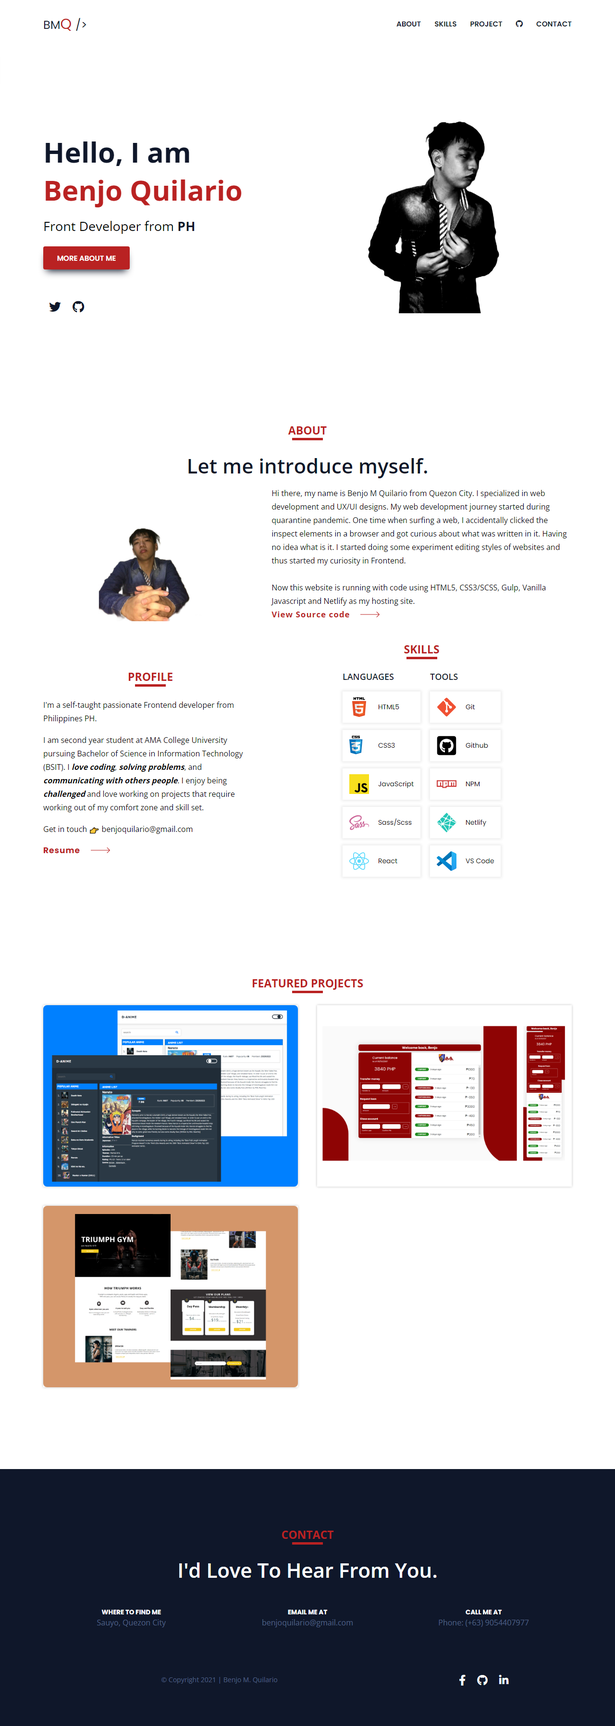
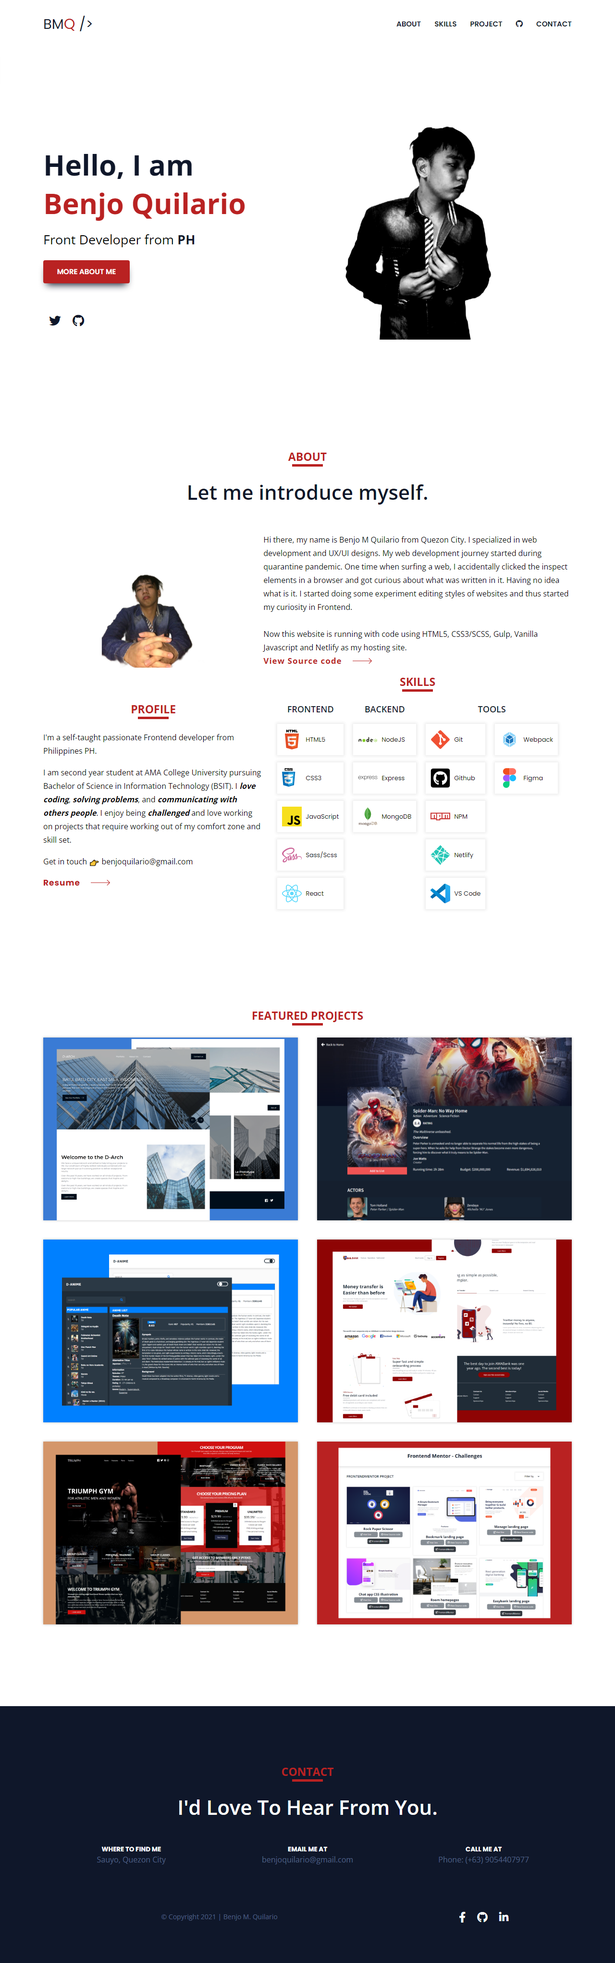
Add: new featured projects

diff --git a/dist/style.css b/dist/style.css
@@ -1,2 +1,2 @@
-@import url("https://fonts.googleapis.com/css2?family=Poppins:wght@400;600;700&display=swap");@import url("https://fonts.googleapis.com/css2?family=Open+Sans:wght@400;600;700&display=swap");:root{--red:#b92222;--white:#fff;--black:#0f172a;--font-Sans:"Open Sans",sans-serif;--font-Poppins:"Poppins",sans-serif;--font-Normal:400;--font-semiBold:600;--font-Bold:700}@keyframes headerScrollIn{0%{opacity:0;transform:translateY(-100%)}to{opacity:1;transform:translateY(0)}}@keyframes headerScrollOut{0%{opacity:1;transform:translateY(0)}to{opacity:0;transform:translateY(-100%)}}.section__hidden,.section__select{transition:all .65s ease-in-out}.section__hidden{opacity:0;transform:translateY(8rem)}html{box-sizing:border-box;font-size:100%}*,:after,:before{box-sizing:inherit;margin:0;padding:0}body{font-family:var(--font-Poppins);font-size:16px;overflow-x:hidden;position:relative}@media screen and (max-width:768px){body.no-scroll{overflow:hidden}}img{height:auto;max-width:100%}ol,ul{list-style:none}button,input{font-family:var(--fontNormal)}a,a:active,a:visited{text-decoration:none}a:active:focus,a:focus,a:visited:focus{outline:none}a:active:focus-visible,a:focus-visible,a:visited:focus-visible{outline:2px solid var(--red);outline-offset:3px}@media (prefers-reduced-motion:reduce){html:focus-within{scroll-behavior:auto}*,:after,:before{animation-duration:.01ms!important;animation-iteration-count:1!important;scroll-behavior:auto!important;transition-duration:.01ms!important}}.container{margin:0 auto;max-width:1100px;width:100%}.skip-to-content-link{background-color:var(--white);box-shadow:5px 5px 5px rgba(0,0,0,.1);color:var(--black);font-size:15px;left:0;padding:20px 40px;position:fixed;text-decoration:underline;top:110px;transform:translateX(-200px);transition:transform .3s ease;z-index:100}.skip-to-content-link:focus{outline:3px dashed var(--red);outline-offset:0;transform:translateX(0)}.loading *,.loading :after,.loading :before{animation-play-state:paused!important}h1,h2,h3,h4,p{font-family:var(--font-Sans)}.heading,.heading--xxl{color:var(--black);font-weight:400}.heading__name{color:var(--red)}.heading--intro{color:var(--black);font-size:clamp(30px,5vw,42px);font-weight:600;margin-bottom:18px;text-align:center}.heading--xxl{font-size:clamp(34px,7vw,59px);font-weight:700;margin-bottom:20px;max-width:450px}.heading--xl{color:var(--red);font-size:clamp(17px,4vw,23px);font-weight:700;margin-bottom:29px;position:relative;text-align:center;text-transform:uppercase}.heading--xl:before{background-color:var(--red);bottom:-5px;content:"";height:5px;left:0;margin:0 auto;position:absolute;right:0;width:64px}.heading--l{color:var(--black);font-size:18px;font-weight:600;margin-bottom:19px;text-align:center;text-transform:uppercase}.heading--m{color:var(--white);font-size:20px;font-weight:600;margin-bottom:14px}.heading--services{font-weight:600;margin:15px 0;text-align:center;text-transform:uppercase}.heading--footer{font-size:40px}.paragraph,.paragraph--l{line-height:1.2}.paragraph__name{color:var(--black);font-weight:700}.paragraph--l{font-size:clamp(23px,3vw,27px);margin-bottom:26px}.paragraph--about{font-size:16px;line-height:28px;margin-bottom:17px}.learnMore__text{color:var(--red);font-size:17px;font-weight:700;letter-spacing:1px;margin-right:18px;transition:margin-right .3s ease-in-out}.learnMore__icon svg path{fill:var(--red)}.btn,.btn--blue,.btn--menu,.btn--start{border:none;cursor:pointer;font-size:15px;font-weight:600;outline:none;position:relative;transition:background-color .3s,border .3s ease-in}.btn--blue:focus,.btn--menu:focus,.btn--start:focus,.btn:focus{outline:none}.btn--blue:focus-visible,.btn--menu:focus-visible,.btn--start:focus-visible,.btn:focus-visible{outline:3px solid var(--red);outline-offset:3px}.btn--menu{align-items:center;background-color:transparent;display:flex;flex-direction:column;justify-self:center;z-index:10}.btn--menu:focus{outline:none}.btn--menu:focus-visible{outline:3px solid var(--red);outline-offset:2px}.btn--menu--bar{background-color:var(--black);display:block;height:.25rem;transition-duration:.2s;transition-timing-function:cubic-bezier(.55,.055,.675,.19);width:1.5rem}.btn--menu--bar:not(:last-of-type){margin-bottom:.2rem}.btn--menu.menu-active .btn--menu--bar{background-color:var(--white)}.btn--menu.menu-active .btn--menu--bar:first-child{transform:rotate(45deg) translate(2px,5px);transition-delay:.15s}.btn--menu.menu-active .btn--menu--bar:nth-child(2){opacity:0}.btn--menu.menu-active .btn--menu--bar:nth-child(3){transform:rotate(-45deg) translate(5px,-8px);transition-delay:.15s}@media screen and (min-width:769px){.btn--menu{display:none}}.btn--blue{align-items:center;border:2px solid var(--red);border-radius:4px;box-shadow:0 10px 15px -7px var(--black);color:var(--white);display:flex;justify-content:center;z-index:1}.btn--blue:hover{color:var(--red)}.btn--blue:hover:before{background-color:var(--white);transition:all .35s ease}.btn--blue:before{background-color:var(--red);content:"";display:block;height:100%;left:0;position:absolute;top:0;transition:all .35s ease;width:100%;z-index:-1}.btn--start{height:48px;width:180px}.btn--more:hover .learnMore__text{margin-right:26px}.btn--view{color:var(--black);font-size:16px}.icon__skills{color:var(--red);font-size:clamp(22px,4vw,29px)}.icon__project{margin-right:10px}.header{left:0;padding:24px 28px 0;position:absolute;width:100%;z-index:999}.header.header--in{animation:headerScrollIn .7s ease-in-out forwards;background-color:var(--white);box-shadow:1px 1px 1px 1px rgba(0,0,0,.04);left:0;padding:12px 28px;position:fixed;top:0;transition:all .3s ease-in-out;width:100%}.header.scroll-out{animation:headerScrollOut .3s ease-in-out forwards}.header__container{align-items:center;display:flex;height:51px;justify-content:space-between;transition:all .35s ease-in-out}.header__logo{color:var(--black);font-size:29px;z-index:1}@media screen and (max-width:768px){.header__logo.active-color{color:var(--white)}}.header__logo--letter{color:var(--red);font-size:30px}@media screen and (max-width:768px){.header__menu{align-items:center;background-color:var(--black);display:flex;height:100vh;justify-content:center;position:fixed;right:-1000px;top:0;transition:all .34s ease-in;width:100%}.header__menu.is-active{right:0}}.header__list{align-items:center;display:flex}@media screen and (min-width:769px){.header__item:not(:last-child){margin-right:28px}}@media screen and (max-width:768px){.header__list{align-items:center;display:grid;grid-template-columns:max-content;grid-template-rows:repeat(5,3.75rem);justify-items:center}}.header__link{color:var(--white);font-size:17px;font-weight:600;position:relative;text-transform:uppercase}.header__link:active{outline:3px solid var(--white);outline-offset:3px}.header__link:before{background-color:var(--red);bottom:-5px;content:"";height:4px;left:0;opacity:0;position:absolute;transform:scaleX(0);transform-origin:left;visibility:hidden;width:100%}@media screen and (min-width:769px){.header__link{color:var(--black);font-size:15px}.header__link:hover{color:var(--red)}.header__link:hover:before{opacity:1;transform:scale(1);transition:all .35s ease-in;visibility:visible}}.hero{padding:216px 28px 80px;position:relative}.hero__container{display:flex;flex-direction:column;position:relative}@media screen and (min-width:769px){.hero__container{align-items:center;flex-direction:row;justify-content:center}}.hero__text{align-items:center;display:flex;flex-direction:column;text-align:center}@media screen and (min-width:769px){.hero__text{align-items:flex-start;flex:1 0 50%;text-align:left}}.hero__image{position:relative;z-index:5}.hero__image img{height:100%;object-fit:cover;position:relative;transform:translateY(-60px);transition:all .3s;width:100%}@media screen and (max-width:768px){.hero__image img{transform:translateY(0)}}.hero__icon{display:flex;margin-top:60px}.hero__icon__link{color:var(--black);font-size:25px;margin:0 6px;transition:all .35s ease-in-out}.hero__icon__link:hover{color:var(--red)}.about{padding:80px 28px 20px}.about__container{align-items:center;display:flex;flex-direction:column;justify-items:center}@media screen and (min-width:769px){.about__container{display:grid;grid-template-columns:1fr 1.4fr;grid-template-rows:290px 1fr;margin-top:60px}}.about__img{height:270px;object-fit:cover;width:286px}.about__hidden{opacity:0;transform:translateY(9rem);transition:all .35s ease-in-out}.services{padding:20px 19px 140px}.services__container{grid-gap:22px;align-items:center;display:grid;grid-template-columns:repeat(3,1fr);grid-template-rows:294px;justify-items:center}@media screen and (max-width:768px){.services__container{grid-template-columns:repeat(2,1fr)}}@media screen and (max-width:576px){.services__container{grid-template-columns:1fr}}.services__images{height:116px;width:205px}.services__service{align-items:center;display:flex;flex-direction:column;justify-content:center;text-align:center}.skills{padding:0 18px;position:relative}.skills__container{display:flex;flex-direction:row;gap:20px}.skills__tech,.skills__tools{display:flex;flex-direction:column;justify-self:center;width:100%}.skills__names{align-items:center;box-shadow:0 0 6px 2px rgba(48,48,48,.1);display:grid;font-weight:500;grid-template-columns:49px 1fr;margin-bottom:15px;padding:10px;text-align:left;width:100%}.skills__names img{height:45px;width:41px}.skills__names .skill__name{font-size:clamp(12px,4vw,13px)}.projects{padding:170px 28px}.projects__container{grid-gap:40px;display:grid;grid-template-columns:repeat(2,1fr);grid-template-rows:auto;margin-top:30px}@media screen and (max-width:768px){.projects__container{grid-template-columns:1fr}}.project{box-shadow:0 0 5px rgba(0,0,0,.25);height:380px;overflow:hidden;position:relative;z-index:1}@media screen and (max-width:568px){.project{height:290px}}@media screen and (max-width:411px){.project{height:250px}}.project:before{background-position:50%;background-repeat:no-repeat;background-size:100% 100%;content:"";height:100%;left:0;position:absolute;top:0;transition:transform .5s ease-in;width:100%}.project--1:before{background-image:url(../../../images/d-anime.png)}.project--2:before{background-image:url(../../../images/AMAUI.png)}.project--3:before{background-image:url(../../../images/Triumph.png)}.project--4:before{background-image:url(../../../images/frontendmentor.png)}.project--5:before{background-image:url(../../../images/image-2.png)}.project__img{border-radius:8px;display:block;min-height:100%;width:100%}.project__effects{display:block;height:100%;width:100%;z-index:1}.project__effects:before{background-image:linear-gradient(90deg,rgba(0,0,0,.4),transparent);transition:opacity .25s ease-in;z-index:-1}.project__effects:after,.project__effects:before{content:"";height:100%;left:0;position:absolute;top:0;width:100%}.project__effects:after{background:hsla(0,0%,100%,.7);opacity:0;transition:opacity .6s ease-in;z-index:1}.project__overlay{background:rgba(0,0,0,.815);color:var(--white);display:flex;flex-direction:column;height:100%;left:0;opacity:0;position:absolute;top:0;transition:opacity .35s;width:100%;z-index:2}.project__overlay:hover{cursor:pointer;opacity:1;z-index:2}.project__overlay:hover>*{transform:translateX(0);transition:transform .35s}.project__overlay>*{transform:translateX(-20px);transition:transform .35s}.project__overlay__desc{margin:auto 0;max-width:100%;padding:.5rem 2rem}@media screen and (max-width:768px){.project__overlay__desc{padding:.5rem 1rem}}.project__description{font-size:clamp(13px,3vw,16px)}.project__use{margin-top:5px}.project__use__language{background-color:var(--red);border-radius:4px;font-size:clamp(11px,3vw,13px);margin-top:5px;padding:1px 3px}.project__code,.project__view{align-items:center;border-radius:7px;display:flex;font-size:14px;height:38px;justify-content:center;transition:all .3s ease}@media screen and (max-width:768px){.project__code,.project__view{font-size:11px;height:28px}}.project__code{background-color:#343a40;border-color:#343a40;color:var(--white);transition:all .3s ease;width:180px}@media screen and (max-width:768px){.project__code{width:135px}}.project__code:hover{background-color:#343a40c9}.project__view{background-color:#868d94;border-color:#868d94;color:var(--white);transition:all .3s ease;width:130px}@media screen and (max-width:768px){.project__view{width:90px}}.project__view:hover{background-color:#868d94ce}.project__link{display:flex;gap:14px;margin-top:16px}.project__title{font-size:clamp(18px,4vw,30px);font-weight:600;letter-spacing:1px;margin-bottom:6px}.tech__container,.tools__container{display:flex;gap:20px}@media screen and (max-width:768px){.tech__container,.tools__container{flex-direction:column;gap:0}}.footer{background-color:var(--black);padding:120px 50px 80px;position:relative}.footer__container{color:#94a9db7e;display:grid;grid-template-areas:"location email number" "copy copy links";grid-template-columns:2fr 2fr 2fr;grid-template-rows:140px 1fr;justify-items:center;margin-top:50px}.footer__container h5{color:var(--white);text-align:center}@media screen and (max-width:768px){.footer__container{grid-gap:24px;grid-template-areas:"location" "email" "number" "copy" "links";grid-template-columns:1fr;grid-template-rows:auto}}.footer__location{grid-area:location}.footer__email{grid-area:email}.footer__number{grid-area:number}.footer__copyright{font-size:14px;grid-area:copy}.footer__links{grid-area:links}.footer__links__link{padding:0 10px}.footer__links__link:hover .footer__links__icon{color:var(--red);transition:color .35s ease-in-out}.footer__links__icon{color:var(--white);font-size:22px;transition:color .35s ease-in-out}
+@import url("https://fonts.googleapis.com/css2?family=Poppins:wght@400;600;700&display=swap");@import url("https://fonts.googleapis.com/css2?family=Open+Sans:wght@400;600;700&display=swap");:root{--red:#b92222;--white:#fff;--black:#0f172a;--font-Sans:"Open Sans",sans-serif;--font-Poppins:"Poppins",sans-serif;--font-Normal:400;--font-semiBold:600;--font-Bold:700}@keyframes headerScrollIn{0%{opacity:0;transform:translateY(-100%)}to{opacity:1;transform:translateY(0)}}@keyframes headerScrollOut{0%{opacity:1;transform:translateY(0)}to{opacity:0;transform:translateY(-100%)}}.section__hidden,.section__select{transition:all .65s ease-in-out}.section__hidden{opacity:0;transform:translateY(8rem)}html{box-sizing:border-box;font-size:100%}*,:after,:before{box-sizing:inherit;margin:0;padding:0}body{font-family:var(--font-Poppins);font-size:16px;overflow-x:hidden;position:relative}@media screen and (max-width:768px){body.no-scroll{overflow:hidden}}img{height:auto;max-width:100%}ol,ul{list-style:none}button,input{font-family:var(--fontNormal)}a,a:active,a:visited{text-decoration:none}a:active:focus,a:focus,a:visited:focus{outline:none}a:active:focus-visible,a:focus-visible,a:visited:focus-visible{outline:2px solid var(--red);outline-offset:3px}@media (prefers-reduced-motion:reduce){html:focus-within{scroll-behavior:auto}*,:after,:before{animation-duration:.01ms!important;animation-iteration-count:1!important;scroll-behavior:auto!important;transition-duration:.01ms!important}}.container{margin:0 auto;max-width:1100px;width:100%}.skip-to-content-link{background-color:var(--white);box-shadow:5px 5px 5px rgba(0,0,0,.1);color:var(--black);font-size:15px;left:0;padding:20px 40px;position:fixed;text-decoration:underline;top:110px;transform:translateX(-200px);transition:transform .3s ease;z-index:100}.skip-to-content-link:focus{outline:3px dashed var(--red);outline-offset:0;transform:translateX(0)}.loading *,.loading :after,.loading :before{animation-play-state:paused!important}h1,h2,h3,h4,p{font-family:var(--font-Sans)}.heading,.heading--xxl{color:var(--black);font-weight:400}.heading__name{color:var(--red)}.heading--intro{color:var(--black);font-size:clamp(30px,5vw,42px);font-weight:600;margin-bottom:18px;text-align:center}.heading--xxl{font-size:clamp(34px,7vw,59px);font-weight:700;margin-bottom:20px;max-width:450px}.heading--xl{color:var(--red);font-size:clamp(17px,4vw,23px);font-weight:700;margin-bottom:29px;position:relative;text-align:center;text-transform:uppercase}.heading--xl:before{background-color:var(--red);bottom:-5px;content:"";height:5px;left:0;margin:0 auto;position:absolute;right:0;width:64px}.heading--l{color:var(--black);font-size:18px;font-weight:600;margin-bottom:19px;text-align:center;text-transform:uppercase}.heading--m{color:var(--white);font-size:20px;font-weight:600;margin-bottom:14px}.heading--services{font-weight:600;margin:15px 0;text-align:center;text-transform:uppercase}.heading--footer{font-size:40px}.paragraph,.paragraph--l{line-height:1.2}.paragraph__name{color:var(--black);font-weight:700}.paragraph--l{font-size:clamp(23px,3vw,27px);margin-bottom:26px}.paragraph--about{font-size:16px;line-height:28px;margin-bottom:17px}.learnMore__text{color:var(--red);font-size:17px;font-weight:700;letter-spacing:1px;margin-right:18px;transition:margin-right .3s ease-in-out}.learnMore__icon svg path{fill:var(--red)}.btn,.btn--blue,.btn--menu,.btn--start{border:none;cursor:pointer;font-size:15px;font-weight:600;outline:none;position:relative;transition:background-color .3s,border .3s ease-in}.btn--blue:focus,.btn--menu:focus,.btn--start:focus,.btn:focus{outline:none}.btn--blue:focus-visible,.btn--menu:focus-visible,.btn--start:focus-visible,.btn:focus-visible{outline:3px solid var(--red);outline-offset:3px}.btn--menu{align-items:center;background-color:transparent;display:flex;flex-direction:column;justify-self:center;z-index:10}.btn--menu:focus{outline:none}.btn--menu:focus-visible{outline:3px solid var(--red);outline-offset:2px}.btn--menu--bar{background-color:var(--black);display:block;height:.25rem;transition-duration:.2s;transition-timing-function:cubic-bezier(.55,.055,.675,.19);width:1.5rem}.btn--menu--bar:not(:last-of-type){margin-bottom:.2rem}.btn--menu.menu-active .btn--menu--bar{background-color:var(--white)}.btn--menu.menu-active .btn--menu--bar:first-child{transform:rotate(45deg) translate(2px,5px);transition-delay:.15s}.btn--menu.menu-active .btn--menu--bar:nth-child(2){opacity:0}.btn--menu.menu-active .btn--menu--bar:nth-child(3){transform:rotate(-45deg) translate(5px,-8px);transition-delay:.15s}@media screen and (min-width:769px){.btn--menu{display:none}}.btn--blue{align-items:center;border:2px solid var(--red);border-radius:4px;box-shadow:0 10px 15px -7px var(--black);color:var(--white);display:flex;justify-content:center;z-index:1}.btn--blue:hover{color:var(--red)}.btn--blue:hover:before{background-color:var(--white);transition:all .35s ease}.btn--blue:before{background-color:var(--red);content:"";display:block;height:100%;left:0;position:absolute;top:0;transition:all .35s ease;width:100%;z-index:-1}.btn--start{height:48px;width:180px}.btn--more:hover .learnMore__text{margin-right:26px}.btn--view{color:var(--black);font-size:16px}.icon__skills{color:var(--red);font-size:clamp(22px,4vw,29px)}.icon__project{margin-right:10px}.header{left:0;padding:24px 28px 0;position:absolute;width:100%;z-index:999}.header.header--in{animation:headerScrollIn .7s ease-in-out forwards;background-color:var(--white);box-shadow:1px 1px 1px 1px rgba(0,0,0,.04);left:0;padding:12px 28px;position:fixed;top:0;transition:all .3s ease-in-out;width:100%}.header.scroll-out{animation:headerScrollOut .3s ease-in-out forwards}.header__container{align-items:center;display:flex;height:51px;justify-content:space-between;transition:all .35s ease-in-out}.header__logo{color:var(--black);font-size:29px;z-index:1}@media screen and (max-width:768px){.header__logo.active-color{color:var(--white)}}.header__logo--letter{color:var(--red);font-size:30px}@media screen and (max-width:768px){.header__menu{align-items:center;background-color:var(--black);display:flex;height:100vh;justify-content:center;position:fixed;right:-1000px;top:0;transition:all .34s ease-in;width:100%}.header__menu.is-active{right:0}}.header__list{align-items:center;display:flex}@media screen and (min-width:769px){.header__item:not(:last-child){margin-right:28px}}@media screen and (max-width:768px){.header__list{align-items:center;display:grid;grid-template-columns:max-content;grid-template-rows:repeat(5,3.75rem);justify-items:center}}.header__link{color:var(--white);font-size:17px;font-weight:600;position:relative;text-transform:uppercase}.header__link:active{outline:3px solid var(--white);outline-offset:3px}.header__link:before{background-color:var(--red);bottom:-5px;content:"";height:4px;left:0;opacity:0;position:absolute;transform:scaleX(0);transform-origin:left;visibility:hidden;width:100%}@media screen and (min-width:769px){.header__link{color:var(--black);font-size:15px}.header__link:hover{color:var(--red)}.header__link:hover:before{opacity:1;transform:scale(1);transition:all .35s ease-in;visibility:visible}}.hero{padding:216px 28px 80px;position:relative}.hero__container{display:flex;flex-direction:column;position:relative}@media screen and (min-width:769px){.hero__container{align-items:center;flex-direction:row;justify-content:center}}.hero__text{align-items:center;display:flex;flex-direction:column;text-align:center}@media screen and (min-width:769px){.hero__text{align-items:flex-start;flex:1 0 50%;text-align:left}}.hero__image{position:relative;z-index:5}.hero__image img{height:100%;object-fit:cover;position:relative;transform:translateY(-60px);transition:all .3s;width:100%}@media screen and (max-width:768px){.hero__image img{transform:translateY(0)}}.hero__icon{display:flex;margin-top:60px}.hero__icon__link{color:var(--black);font-size:25px;margin:0 6px;transition:all .35s ease-in-out}.hero__icon__link:hover{color:var(--red)}.about{padding:80px 28px 20px}.about__container{align-items:center;display:flex;flex-direction:column;justify-items:center}@media screen and (min-width:769px){.about__container{display:grid;grid-template-columns:1fr 1.4fr;grid-template-rows:290px 1fr;margin-top:60px}}.about__img{height:270px;object-fit:cover;width:286px}.about__hidden{opacity:0;transform:translateY(9rem);transition:all .35s ease-in-out}.services{padding:20px 19px 140px}.services__container{grid-gap:22px;align-items:center;display:grid;grid-template-columns:repeat(3,1fr);grid-template-rows:294px;justify-items:center}@media screen and (max-width:768px){.services__container{grid-template-columns:repeat(2,1fr)}}@media screen and (max-width:576px){.services__container{grid-template-columns:1fr}}.services__images{height:116px;width:205px}.services__service{align-items:center;display:flex;flex-direction:column;justify-content:center;text-align:center}.skills{padding:0 18px;position:relative}.skills__container{display:flex;flex-direction:row;gap:20px}.skills__tech,.skills__tools{display:flex;flex-direction:column;justify-self:center;width:100%}.skills__names{align-items:center;box-shadow:0 0 6px 2px rgba(48,48,48,.1);display:grid;font-weight:500;grid-template-columns:49px 1fr;margin-bottom:15px;padding:10px;text-align:left;width:100%}.skills__names img{height:45px;width:41px}.skills__names .skill__name{font-size:clamp(12px,4vw,13px)}.projects{padding:170px 28px}.projects__container{grid-gap:40px;display:grid;grid-template-columns:repeat(2,1fr);grid-template-rows:auto;margin-top:30px}@media screen and (max-width:768px){.projects__container{grid-template-columns:1fr}}.project{box-shadow:0 0 5px rgba(0,0,0,.25);height:380px;overflow:hidden;position:relative;z-index:1}@media screen and (max-width:568px){.project{height:290px}}@media screen and (max-width:411px){.project{height:250px}}.project:before{background-position:50%;background-repeat:no-repeat;background-size:100% 100%;content:"";height:100%;left:0;position:absolute;top:0;transition:transform .5s ease-in;width:100%}.project--1:before{background-image:url(../../../images/d-anime.png)}.project--2:before{background-image:url(../../../images/AMAUI.png)}.project--3:before{background-image:url(../../../images/Triumph.png)}.project--4:before{background-image:url(../../../images/frontendmentor.png)}.project--5:before{background-image:url(../../../images/image-2.png)}.project--6:before{background-image:url(../../../images/D-arch.png)}.project__img{border-radius:8px;display:block;min-height:100%;width:100%}.project__effects{display:block;height:100%;width:100%;z-index:1}.project__effects:before{background-image:linear-gradient(90deg,rgba(0,0,0,.4),transparent);transition:opacity .25s ease-in;z-index:-1}.project__effects:after,.project__effects:before{content:"";height:100%;left:0;position:absolute;top:0;width:100%}.project__effects:after{background:hsla(0,0%,100%,.7);opacity:0;transition:opacity .6s ease-in;z-index:1}.project__overlay{background:rgba(0,0,0,.815);color:var(--white);display:flex;flex-direction:column;height:100%;left:0;opacity:0;position:absolute;top:0;transition:opacity .35s;width:100%;z-index:2}.project__overlay:hover{cursor:pointer;opacity:1;z-index:2}.project__overlay:hover>*{transform:translateX(0);transition:transform .35s}.project__overlay>*{transform:translateX(-20px);transition:transform .35s}.project__overlay__desc{margin:auto 0;max-width:100%;padding:.5rem 2rem}@media screen and (max-width:768px){.project__overlay__desc{padding:.5rem 1rem}}.project__description{font-size:clamp(13px,3vw,16px)}.project__use{margin-top:5px}.project__use__language{background-color:var(--red);border-radius:4px;font-size:clamp(11px,3vw,13px);margin-top:5px;padding:1px 3px}.project__code,.project__view{align-items:center;border-radius:7px;display:flex;font-size:14px;height:38px;justify-content:center;transition:all .3s ease}@media screen and (max-width:768px){.project__code,.project__view{font-size:11px;height:28px}}.project__code{background-color:#343a40;border-color:#343a40;color:var(--white);transition:all .3s ease;width:180px}@media screen and (max-width:768px){.project__code{width:135px}}.project__code:hover{background-color:#343a40c9}.project__view{background-color:#868d94;border-color:#868d94;color:var(--white);transition:all .3s ease;width:130px}@media screen and (max-width:768px){.project__view{width:90px}}.project__view:hover{background-color:#868d94ce}.project__link{display:flex;gap:14px;margin-top:16px}.project__title{font-size:clamp(18px,4vw,30px);font-weight:600;letter-spacing:1px;margin-bottom:6px}.tech__container,.tools__container{display:flex;gap:20px}@media screen and (max-width:768px){.tech__container,.tools__container{flex-direction:column;gap:0}}.footer{background-color:var(--black);padding:120px 50px 80px;position:relative}.footer__container{color:#94a9db7e;display:grid;grid-template-areas:"location email number" "copy copy links";grid-template-columns:2fr 2fr 2fr;grid-template-rows:140px 1fr;justify-items:center;margin-top:50px}.footer__container h5{color:var(--white);text-align:center}@media screen and (max-width:768px){.footer__container{grid-gap:24px;grid-template-areas:"location" "email" "number" "copy" "links";grid-template-columns:1fr;grid-template-rows:auto}}.footer__location{grid-area:location}.footer__email{grid-area:email}.footer__number{grid-area:number}.footer__copyright{font-size:14px;grid-area:copy}.footer__links{grid-area:links}.footer__links__link{padding:0 10px}.footer__links__link:hover .footer__links__icon{color:var(--red);transition:color .35s ease-in-out}.footer__links__icon{color:var(--white);font-size:22px;transition:color .35s ease-in-out}
 /*# sourceMappingURL=style.css.map */

diff --git a/index.html b/index.html
@@ -318,6 +318,72 @@
          <section class="projects section__select" id="projects">
             <h2 class="heading heading--xl">Featured Projects</h2>
             <div class="projects__container container section__select">
+               <article class="project project--6">
+                  <span class="project__effects"></span>
+                  <div class="project__overlay">
+                     <div class="project__overlay__desc">
+                        <div class="project__title">D-ARCH</div>
+                        <p class="project__description">
+                           D-ARCH is a landing page website built with using
+                           react and style-componets, D-ARCH is a complete
+                           responsive in any devices
+                        </p>
+                        <div class="project__link">
+                           <a
+                              href="https://d-movie.netlify.app/"
+                              class="project__view"
+                              id="focus"
+                              target="_blank"
+                              ><i
+                                 class="fas fa-external-link-alt icon__project"
+                              ></i>
+                              Visit site
+                           </a>
+                           <a
+                              href="https://github.com/benjoquilario/D-Arch-Landing-Page"
+                              class="project__code"
+                              target="_blank"
+                              id="focus"
+                              ><i class="fab fa-github icon__project"></i>
+                              View Source code
+                           </a>
+                        </div>
+                     </div>
+                  </div>
+               </article>
+               <article class="project project--5">
+                  <span class="project__effects"></span>
+                  <div class="project__overlay">
+                     <div class="project__overlay__desc">
+                        <div class="project__title">D-MOVIE</div>
+                        <p class="project__description">
+                           D-MOVIE is an application built with react, where
+                           user will able to search there favorite movie and
+                           gives tons of information about that specific movie
+                        </p>
+                        <div class="project__link">
+                           <a
+                              href="https://d-movie.netlify.app/"
+                              class="project__view"
+                              id="focus"
+                              target="_blank"
+                              ><i
+                                 class="fas fa-external-link-alt icon__project"
+                              ></i>
+                              Visit site
+                           </a>
+                           <a
+                              href="https://github.com/benjoquilario/D-MOVIE"
+                              class="project__code"
+                              target="_blank"
+                              id="focus"
+                              ><i class="fab fa-github icon__project"></i>
+                              View Source code
+                           </a>
+                        </div>
+                     </div>
+                  </div>
+               </article>
                <article class="project project--1">
                   <span class="project__effects"></span>
                   <div class="project__overlay">
@@ -452,39 +518,6 @@
                            </a>
                            <a
                               href="https://github.com/benjoquilario/Frontendmentor-Projects"
-                              class="project__code"
-                              target="_blank"
-                              id="focus"
-                              ><i class="fab fa-github icon__project"></i>
-                              View Source code
-                           </a>
-                        </div>
-                     </div>
-                  </div>
-               </article>
-               <article class="project project--5">
-                  <span class="project__effects"></span>
-                  <div class="project__overlay">
-                     <div class="project__overlay__desc">
-                        <div class="project__title">D-MOVIE</div>
-                        <p class="project__description">
-                           D-MOVIE is an application built with react, where
-                           user will able to search there favorite movie and
-                           gives tons of information about that specific movie
-                        </p>
-                        <div class="project__link">
-                           <a
-                              href="https://d-movie.netlify.app/"
-                              class="project__view"
-                              id="focus"
-                              target="_blank"
-                              ><i
-                                 class="fas fa-external-link-alt icon__project"
-                              ></i>
-                              Visit site
-                           </a>
-                           <a
-                              href="https://github.com/benjoquilario/D-MOVIE"
                               class="project__code"
                               target="_blank"
                               id="focus"

diff --git a/app/scss/layout/_main.scss b/app/scss/layout/_main.scss
@@ -230,6 +230,10 @@
       background-image: url('../../../images/image-2.png');
    }
 
+   &--6::before {
+      background-image: url('../../../images/D-arch.png');
+   }
+
    &__img {
       display: block;
       min-height: 100%;

diff --git a/README.md b/README.md
@@ -11,7 +11,7 @@ Others are welcome to use this code as a base for their own projects, but with e
 ### How to use
 
 1. Clone this repo to a local directory on your machine
-2. Run `npm run gulp` or write `gulp` in the terminal and wait for `localhost:3000`
+2. Run `npm run gulp` or write `gulp` in the terminal and wait for `localhost`
 
 ### Screenshot
 
